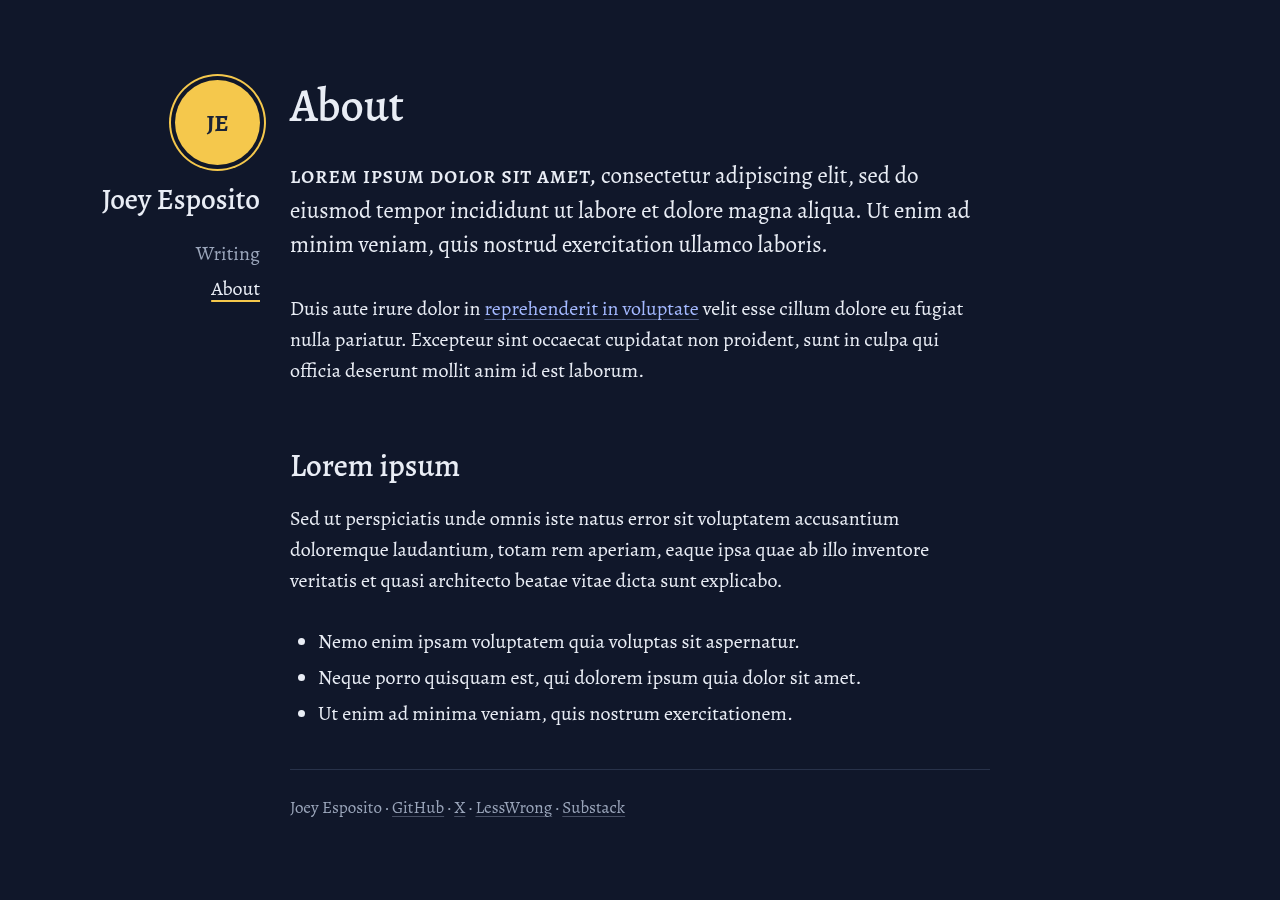
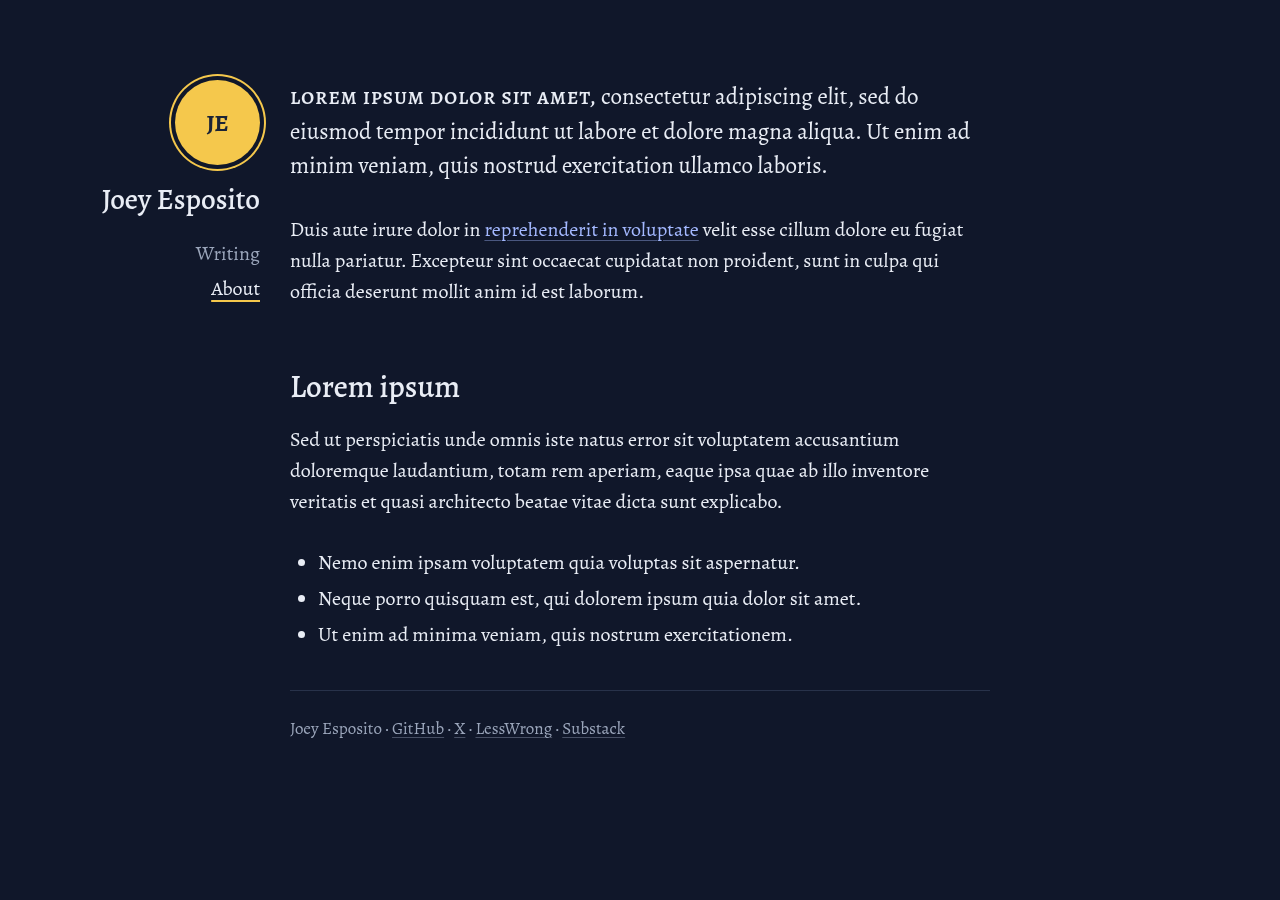
Hide the about page's visible title; the nav already names the page

Changed region(s): [[0.2188, 0.0933, 0.75, 0.84], [0.375, 0.8711, 0.4688, 0.9022], [0.25, 0.8711, 0.3438, 0.9022]]

diff --git a/DESIGN.md b/DESIGN.md
@@ -109,7 +109,7 @@ set at 0.8em; Alegreya has no lozenge, so it is an SVG mask in `global.css`.
 |---|---|
 | `/` | Intro, then "Writing": filters and the full list. With no posts yet, the Writing section is left out and the page is the intro alone. |
 | `/posts/<slug>/` | Essay, project or note. A project's meta line links its repo or demo. KaTeX's stylesheet loads only when the post contains math. |
-| `/about/` | Prose page; the footer, 2rem below the last paragraph, carries the profile links |
+| `/about/` | Prose page opening on its first paragraph (the "About" heading is for screen readers only; the nav names the page); the footer, 2rem below the last paragraph, carries the profile links |
 | `/evals/` | Intro line and eval cards. Unpublished until its text is written: the page is `src/pages/_evals.astro` and Evals is out of the nav. The `evals-*` screenshots show its design. |
 | `/404` | "Page not found" with a link to the list |
 | `/og/<slug>.png`, `/og/index.png` | 1200×630 social cards: paper background, sunflower left edge, avatar mark, title in Alegreya, "Joey Esposito · joesposito.com" |
